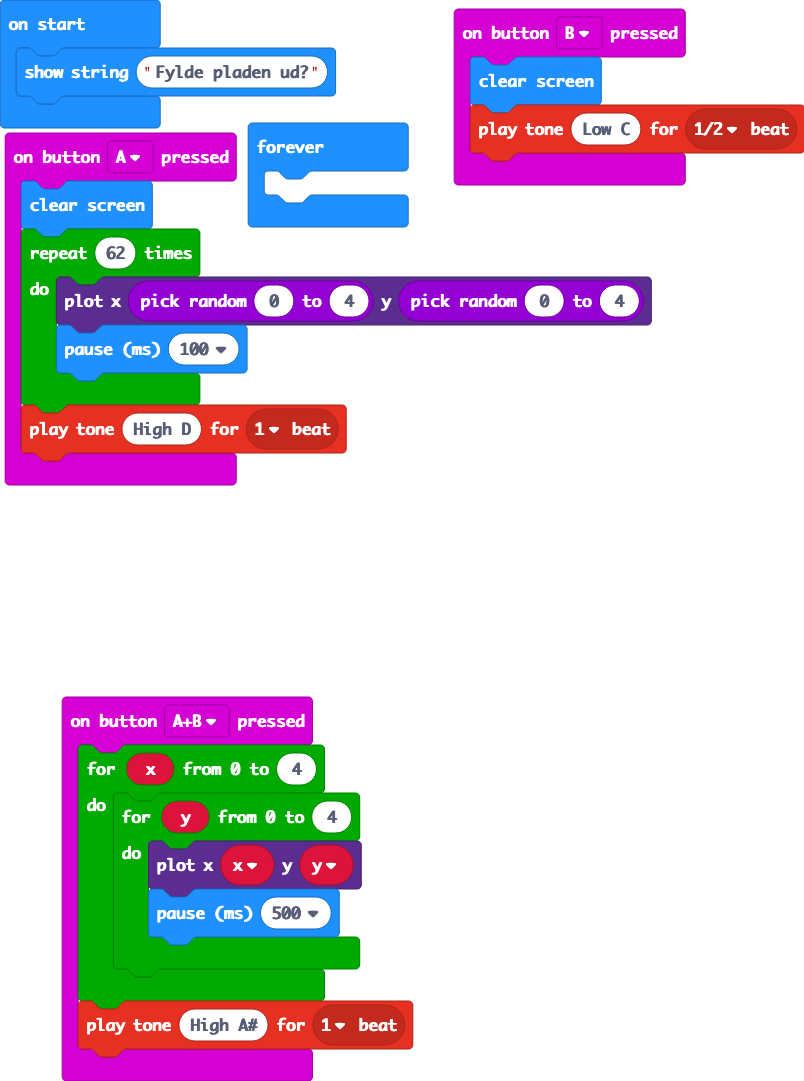
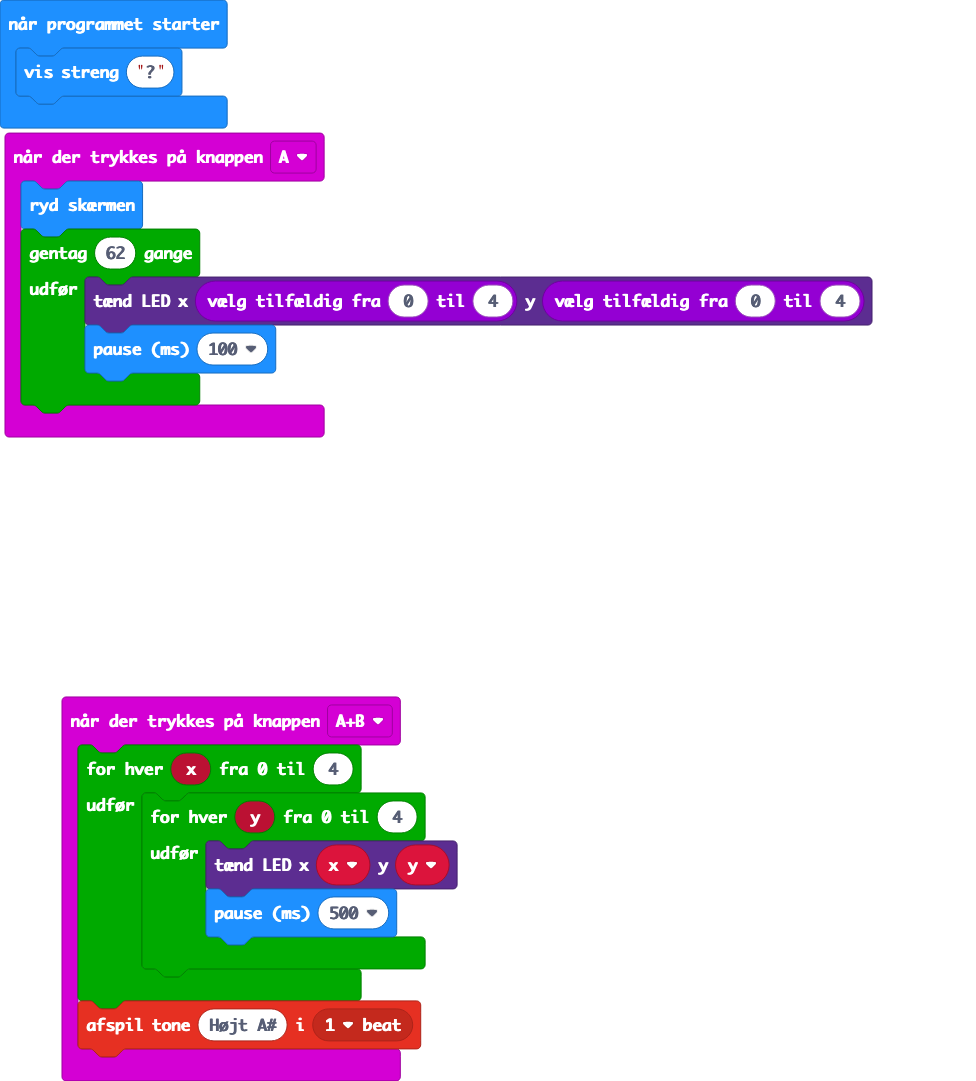
Opdater pxt.json, main.blocks, main.ts

Changed region(s): [[0.0, 0.0, 0.9017, 0.4579], [0.0622, 0.6411, 0.5286, 1.0], [0.5597, 0.0, 1.0, 0.1832]]

diff --git a/main.ts b/main.ts
@@ -1,3 +1,10 @@
+input.onButtonPressed(Button.A, function () {
+    basic.clearScreen()
+    for (let index = 0; index < 62; index++) {
+        led.plot(randint(0, 4), randint(0, 4))
+        basic.pause(100)
+    }
+})
 input.onButtonPressed(Button.AB, function () {
     for (let x = 0; x <= 4; x++) {
         for (let y = 0; y <= 4; y++) {
@@ -7,19 +14,4 @@ input.onButtonPressed(Button.AB, function () {
     }
     music.playTone(932, music.beat(BeatFraction.Whole))
 })
-input.onButtonPressed(Button.B, function () {
-    basic.clearScreen()
-    music.playTone(131, music.beat(BeatFraction.Half))
-})
-input.onButtonPressed(Button.A, function () {
-    basic.clearScreen()
-    for (let index = 0; index < 62; index++) {
-        led.plot(Math.randomRange(0, 4), Math.randomRange(0, 4))
-        basic.pause(100)
-    }
-    music.playTone(587, music.beat(BeatFraction.Whole))
-})
-basic.showString("Fylde pladen ud?")
-basic.forever(function () {
-	
-})
+basic.showString("?")
